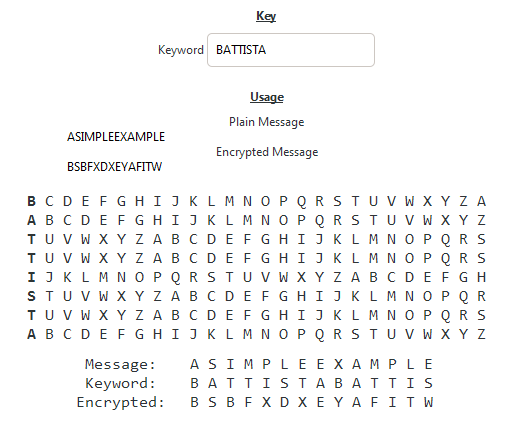
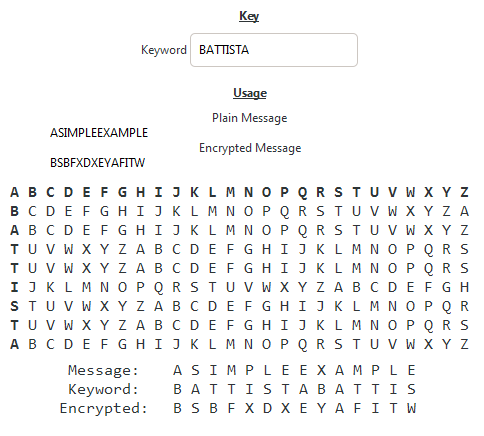
finish doc

diff --git a/src/algos/bazeries.cpp b/src/algos/bazeries.cpp
@@ -32,41 +32,44 @@ namespace Bazeries
         str_t result = str_make(message.length);
 
         size_t current_block_index = 0;
-        size_t i = 0;
-        size_t j = 0;
+        size_t message_index       = 0;
+        size_t group_offset        = 0;
 
-        while (i < message.length)
+        while (group_offset < message.length)
         {
-            size_t current_block_length = std::min((size_t)key.numeric_keyword[current_block_index], message.length - i);
+            size_t current_block_length = std::min(
+                (size_t)key.numeric_keyword[current_block_index], message.length - group_offset);
             size_t in_block_index = current_block_length - 1;
 
             while ((s32)in_block_index >= 0)
             {
-                size_t index = i + in_block_index;
+                size_t result_index = group_offset + in_block_index;
 
                 if (action == ENCRYPT)
                 {
-                    size_t ch_index = str_find_char_index(str_view(key.transposed_alphabet), message[j]);
+                    size_t ch_index = str_find_char_index(str_view(key.transposed_alphabet), message[message_index]);
                     if (ch_index == (size_t)-1)
                     {
-                        report_error("Character %c not found in string %s", message[j], key.transposed_alphabet.chars);
+                        report_error("Character %c not found in string %s", 
+                            message[message_index], key.transposed_alphabet.chars);
                     }
-                    result[index] = key.poly.table[ch_index];
+                    result[result_index] = key.poly.table[ch_index];
                 }
                 else
                 {
-                    size_t ch_index = str_find_char_index(str_view(key.poly.table), message[j]);
+                    size_t ch_index = str_find_char_index(str_view(key.poly.table), message[message_index]);
                     if (ch_index == (size_t)-1)
                     {
-                        report_error("Character %c not found in string %s", message[j], key.poly.table.chars);
+                        report_error("Character %c not found in string %s", 
+                            message[message_index], key.poly.table.chars);
                     }
-                    result[index] = key.transposed_alphabet[ch_index];
+                    result[result_index] = key.transposed_alphabet[ch_index];
                 }
 
                 in_block_index--;
-                j++;
+                message_index++;
             }
-            i += current_block_length;
+            group_offset += current_block_length;
             current_block_index = (current_block_index + 1) % key.numeric_keyword.size();
         }
 

diff --git a/src/gui/vigenere.cpp b/src/gui/vigenere.cpp
@@ -182,15 +182,20 @@ void VigenereBox::recreate_key_grid()
 {
     grid_remove_children(m_KeyTable_Grid);
 
+    for (char j = 0; j < LATIN_LENGTH; j++)
+    {
+        attach_bold_label(j + 'A', j, 0, m_KeyTable_Grid);
+    }
+
     for (size_t i = 0; i < m_keyword.length; i++)
     {
-        attach_bold_label(m_keyword[i], 0, i, m_KeyTable_Grid);
+        attach_bold_label(m_keyword[i], 0, i + 1, m_KeyTable_Grid);
 
         for (char j = 1; j < LATIN_LENGTH; j++)
         {
             attach_label(
                 (m_keyword[i] + j - FIRST_CHARACTER) % LATIN_LENGTH + FIRST_CHARACTER,
-                j, i, m_KeyTable_Grid
+                j, i + 1, m_KeyTable_Grid
             ); 
         }
     }

diff --git a/src/algos/vigenere.cpp b/src/algos/vigenere.cpp
@@ -2,7 +2,7 @@
 
 namespace Vigenere
 {
-    // We assume only plain lower case latin letters are used
+    // We assume only plain upper case latin letters are used
     str_t xxcrypt(str_view_t message, const Key& key, Crypto_Action action)
     {
         str_t result = str_make(message.length);

diff --git a/doc/lab1.md b/doc/lab1.md
@@ -2,6 +2,8 @@
 
 A realizat: **Curmanschii Anton, IA1901**.
 
+Întregul cod puteți găsi pe [github-ul meu](https://github.com/AntonC9018/uni_crypto).
+
 ## Sarcini
 
 1. De construit o interfață grafică pentru prezentarea unelor sisteme de criptare. Am avut varianta 2, de aceea am integrat in interfață algoritmele de criptare *cu deplasare pe rând și coloană*, *straddling checkerbox*, *vigenere* și *bazeries*.
@@ -278,7 +280,7 @@ Implementarea însuși tabelului pentru asocierile date nu-l voi descrie în pse
 
 ### Implementarea în C++
 
-Unele macro-uri și chestii sunt omise pentru simplicitate. str_builder_t funcționează în acest ca un vector de caracteri.
+Unele macro-uri și chestii sunt omise pentru simplicitate. str_builder_t funcționează în acest exemplu în mare parte ca un vector de caractere.
 
 ```cpp
 namespace Straddling
@@ -406,6 +408,164 @@ namespace Straddling
 ## Vigenere
 
 ![Vigenere](image/vigenere.png)
+
 ### Câmpurile customizabile
+
+Câmpul cu cheia determină cheia fluidă utilizată la criptare.
+
 ### Descriere și Pseudocod
+
+Acest algoritm este bazat pe algoritmul lui Caesar, însă îl îmbunătățește. Este utilizată o cheie fluidă care definește o deplasare Caesar diferită pentru fiecare literă a mesajului. În exemplul de pe imagine, pentru a cripta prima litera A, se ia a doua linie din tabel de mai sus care de fapt este echivalentă cu cifrul Caesar cu deplasare 1 (a prima linie din tabelul de mai sus este pentru referință), și se ia caracterul de pe poziția caracterului A din alfabetul latin normal (1). Prin urmare, obținem litera B. A doua literă S este luată din alfabetul Caesar cu deplasare 0, de pe a treia linie din tabel de mai sus, deci este criptată ca S. Când sunt utilizate toate literele cuvântului cheie, ne întoarcem iarași la rândul 2.
+
+Matematic, algoritmul este și mai simplu. Formula pentru criptare este, dacă îi atribuim câte un indice fiecărei litere din tabel, de la 0 pentru A până la 26 pentru Z, `mesaj_criptată[i] = (cuvântul_cheie[i % lungimea_cuvântului_cheie] + mesaj[i]) mod 26`, iar pentru decriptare scadem litera cuvantului cheie. Luăm valorile pozitive pentru mod (restul împărțirii).
+
+```
+m              := mesaj pentru criptare/decriptare, ca un șir de caractere din alfabetul latin
+cuvântul_cheie := șirul de caractere cuvântului cheie
+acțiunea       := 1 dacă are loc criptarea, -1 dacă decriptăm
+
+pentru fiecare indice mesajului
+    m_rezultant += (m[indice] + acțiunea * cuvântul_cheie[indice % cuvântul_cheie.lungime]) % 26
+
+return m_rezultant
+```
+
 ### Implementarea în C++
+
+Macrourile `FIRST_CHARACTER` și `LATIN_LENGTH` sunt echivalente cu 'A' și 26 respectiv, iar Crypto_Action este 1 sau -1, cum descris mai sus.
+
+```cpp
+namespace Vigenere
+{
+    // We assume only plain upper case latin letters are used
+    str_t xxcrypt(str_view_t message, const Key& key, Crypto_Action action)
+    {
+        str_t result = str_make(message.length);
+        size_t j = 0;
+
+        for (size_t i = 0; i < message.length; i++)
+        {
+            result[i] = ((message[i] - FIRST_CHARACTER) + action * (key.keyword[j] - FIRST_CHARACTER) + LATIN_LENGTH) % LATIN_LENGTH + FIRST_CHARACTER;
+
+            j++;
+            if (j == key.keyword.length) 
+            {
+                j = 0;
+            }
+        }
+
+        return result;
+    }
+}
+```
+
+## Bazeries
+
+![Bazeries](image/bazeries.png)
+
+### Câmpurile customizabile
+
+Cuvântul cheie definește ordinea în al doilea tabel (polybios).
+
+Cheia numerică definește lungimele grupurilor cuvintelor la inversare.
+
+### Descriere și Pseudocod
+
+Se utilizează alfabetul latin modificat ca el să aibă numai 25 caractere pentru ca să se încape în tabel: J este combinată cu I. Tabelul 1 este completat cu literele alfabetului latin, în ordinea coloană-rând, iar în al doilea tabel la început se înscrie cuvântul cheie, fără repetări ale literelor, iar pe urmă restul alfabetului, în ordinea rând-coloană. 
+
+La criptare literele mesajului sunt culese în grupuri de lungime, definită de cheia numerică. În exemplul de pe imagine, avem grupurile de 7, 3, 5 și 2 caractere, iar literele mesajului sunt mereu afișate deja grupate după aceste numere. Pe urmă literele sunt criptate în așa fel: se ia litera din al doilea tabel de pe poziția literei curente a mesajului în primul tabel. La următorul pas, se obține mesajul criptat prin inversarea tuturor grupurilor de caractere.
+
+Prin cod putem face ultimele două pasuri într-o dată. Tabelele le putem reprezenta ca un șir unidimensional de caractere.
+
+```
+m        := mesajul criptat
+alfabet  := alfabetul, unde J este eliminată (sau orice alt alfabet cu dimensiunile corecte).
+            reprezintă de fapt primul tabel. Atenție: dacă acest tabel este format simplu prin 
+            scoaterea lui J din alfabet normal latin, trebuie să fie și inversat, fiindcă îl citim
+            în modul coloană-rând.
+polybios := cheia polybios (tabelul 2)
+grupuri  := cheia numerica
+
+indice_grup  := 0
+indice_mesaj := 0
+
+până când indice_mesaj < m.lungime
+    lungimea_blocului := min(grupuri[indice_grup], m.lungime - indice_mesaj)
+    indice_în_grup    := lungimea_blocului - 1
+    indice_mesaj_temp := indice_mesaj
+
+    până când indice_în_grup >= 0
+        indice_mesaj_criptat := indice_mesaj_temp + indice_în_grup
+        poziția_în_alfabet   := find_index(alfabet, m[indice_mesaj_temp])
+        m_criptat            += polybios[poziția_în_alfabet]
+        indice_în_grup--
+        indice_mesaj_temp++
+    
+    indice_mesaj += lungimea_blocului
+    indice_grup++
+
+    dacă indice_grup >= grupuri.lungime
+        indice_grup := 0
+
+return m_criptat
+```
+
+Decriptarea este identica cu criptarea, numai că tabelele sunt interschimbat.
+
+### Implementarea în C++
+
+Iarăși nu arăt generarea cheilor.
+
+```cpp
+namespace Bazeries
+{
+    str_t xxcrypt(str_view_t message, const Key& key, Crypto_Action action)
+    {
+        str_t result = str_make(message.length);
+
+        size_t current_block_index = 0;
+        size_t message_index       = 0;
+        size_t group_offset        = 0;
+
+        while (group_offset < message.length)
+        {
+            size_t current_block_length = std::min(
+                (size_t)key.numeric_keyword[current_block_index], message.length - group_offset);
+            size_t in_block_index = current_block_length - 1;
+
+            while ((s32)in_block_index >= 0)
+            {
+                size_t result_index = group_offset + in_block_index;
+
+                if (action == ENCRYPT)
+                {
+                    size_t ch_index = str_find_char_index(str_view(key.transposed_alphabet), message[message_index]);
+                    if (ch_index == (size_t)-1)
+                    {
+                        report_error("Character %c not found in string %s", 
+                            message[message_index], key.transposed_alphabet.chars);
+                    }
+                    result[result_index] = key.poly.table[ch_index];
+                }
+                else
+                {
+                    size_t ch_index = str_find_char_index(str_view(key.poly.table), message[message_index]);
+                    if (ch_index == (size_t)-1)
+                    {
+                        report_error("Character %c not found in string %s", 
+                            message[message_index], key.poly.table.chars);
+                    }
+                    result[result_index] = key.transposed_alphabet[ch_index];
+                }
+
+                in_block_index--;
+                message_index++;
+            }
+            group_offset += current_block_length;
+            current_block_index = (current_block_index + 1) % key.numeric_keyword.size();
+        }
+
+        return result;
+    }
+}
+```
